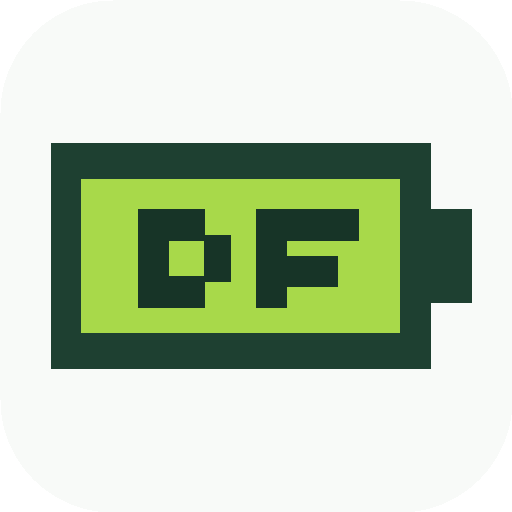
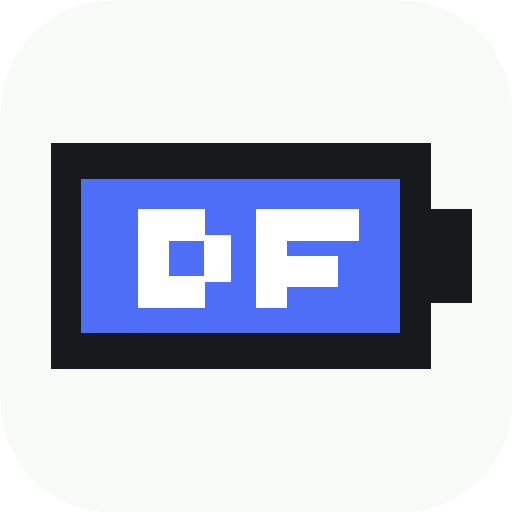
style: align Dayfill with Mind Scale typography

diff --git a/styles.css b/styles.css
@@ -1,29 +1,27 @@
-@import url('https://fonts.googleapis.com/css2?family=DM+Sans:wght@400;500;600&family=Manrope:wght@500;600;700&display=swap');
-
 :root {
-  --cream: #f8faf8;
+  --cream: #ffffff;
   --paper: #ffffff;
-  --ink: #151917;
-  --muted: #707873;
-  --line: #dfe4e0;
-  --lime: #a8d84e;
-  --lime-soft: #edf5dc;
-  --green: #315b46;
-  --green-dark: #1e4031;
+  --ink: #14171c;
+  --muted: #6b7280;
+  --line: #e5e7eb;
+  --blue: #4f6ef7;
+  --blue-soft: #eef2ff;
+  --blue-ui: #4563e6;
+  --blue-dark: #344fc7;
   --danger: #9a3f38;
   --shadow: 0 12px 36px rgba(25, 38, 30, .06);
 }
 
 * { box-sizing: border-box; }
-html { background: var(--cream); color: var(--ink); font-family: 'DM Sans', system-ui, sans-serif; }
+html { background: var(--cream); color: var(--ink); font-family: -apple-system, BlinkMacSystemFont, "Pretendard", "Noto Sans KR", sans-serif; font-synthesis: none; }
 body { margin: 0; min-width: 320px; min-height: 100vh; }
 button, textarea, input { font: inherit; }
 button { color: inherit; }
 [hidden] { display: none !important; }
 
 .app-shell { min-height: 100vh; display: flex; flex-direction: column; }
-.topbar { height: 72px; padding: 0 max(20px, env(safe-area-inset-left)); display: grid; grid-template-columns: 88px 1fr 88px; align-items: center; position: sticky; top: 0; z-index: 10; background: rgba(248,250,248,.9); backdrop-filter: blur(16px); }
-.wordmark { background: none; border: 0; font: 600 18px/1 'Manrope', sans-serif; letter-spacing: -.03em; cursor: pointer; }
+.topbar { height: 72px; padding: 0 max(20px, env(safe-area-inset-left)); display: grid; grid-template-columns: 88px 1fr 88px; align-items: center; position: sticky; top: 0; z-index: 10; background: rgba(255,255,255,.9); backdrop-filter: blur(16px); }
+.wordmark { background: none; border: 0; font-weight: 600; font-size: 18px; line-height: 1; letter-spacing: -.03em; cursor: pointer; }
 .header-actions { display: flex; justify-content: flex-end; }
 .icon-button { width: 44px; height: 44px; border: 0; background: transparent; display: grid; place-content: center; gap: 5px; cursor: pointer; border-radius: 50%; }
 .icon-button:hover, .icon-button:focus-visible { background: rgba(47,93,70,.08); outline: none; }
@@ -33,51 +31,50 @@ button { color: inherit; }
 .language-wrap { position: relative; justify-self: end; }
 .language-popover { position: absolute; right: 0; top: 52px; min-width: 142px; padding: 7px; border: 1px solid var(--line); border-radius: 14px; background: var(--paper); box-shadow: var(--shadow); z-index: 15; }
 .language-popover button { display: block; width: 100%; padding: 10px 12px; text-align: left; border: 0; background: transparent; border-radius: 9px; cursor: pointer; }
-.language-popover button:hover, .language-popover button.active { background: var(--lime-soft); }
+.language-popover button:hover, .language-popover button.active { background: var(--blue-soft); }
 
 main { flex: 1; width: min(100%, 900px); margin: 0 auto; padding: 72px 28px 100px; }
 .hero { text-align: center; }
 .eyebrow { margin: 0 0 10px; color: var(--muted); font-size: 12px; font-weight: 500; letter-spacing: .04em; }
-.year { margin: 0; font: 500 clamp(46px, 11vw, 76px)/1 'Manrope', sans-serif; letter-spacing: -.055em; }
-.year sup { display: inline-block; width: 8px; height: 8px; margin-left: 10px; background: var(--lime); border-radius: 50%; vertical-align: top; }
+.year { margin: 0; font-weight: 400; font-size: clamp(46px, 11vw, 76px); line-height: 1; letter-spacing: -.055em; }
 
 .battery-wrap { margin: 52px auto 34px; max-width: 760px; padding-right: 15px; position: relative; }
-.battery { height: clamp(76px, 14vw, 112px); padding: 6px; border: 3px solid var(--ink); border-radius: 11px; background: var(--paper); display: grid; grid-template-columns: repeat(12, 1fr); gap: 0; position: relative; }
+.battery { height: clamp(76px, 14vw, 112px); padding: 6px; border: 3px solid #17191d; border-radius: 11px; background: var(--paper); display: grid; grid-template-columns: repeat(12, 1fr); gap: 0; position: relative; }
 .battery::after { content: ''; position: absolute; right: -15px; top: 31%; width: 10px; height: 38%; background: var(--ink); border-radius: 0 3px 3px 0; }
-.battery-cell { background: #f1f3f1; overflow: hidden; position: relative; }
+.battery-cell { background: #f3f5f7; overflow: hidden; position: relative; }
 .battery-cell:first-child { border-radius: 5px 0 0 5px; }
 .battery-cell:last-child { border-radius: 0 5px 5px 0; }
-.battery-cell > i { display: block; position: absolute; inset: 0; background: var(--lime); transform-origin: left; }
-.battery-cell > b { position: absolute; z-index: 2; top: 14%; bottom: 14%; right: 0; width: 1px; background: rgba(21,25,23,.2); }
-.progress-copy { margin: 0; font: 500 clamp(20px, 5vw, 27px)/1.35 'Manrope', sans-serif; }
+.battery-cell > i { display: block; position: absolute; inset: 0; background: var(--blue); transform-origin: left; }
+.battery-cell > b { position: absolute; z-index: 2; top: 14%; bottom: 14%; right: 0; width: 1px; background: rgba(226,232,240,.82); }
+.progress-copy { margin: 0; font-weight: 500; font-size: clamp(20px, 5vw, 27px); line-height: 1.35; }
 .fridays { display: inline-flex; align-items: center; gap: 9px; margin: 11px 0 0; color: var(--muted); font-size: 15px; }
-.fridays::before { content: ''; width: 7px; height: 7px; border-radius: 50%; background: var(--lime); }
+.fridays::before { content: ''; width: 6px; height: 6px; border-radius: 50%; background: var(--blue); }
 
 .today-section { margin-top: 108px; padding: 58px 0 0; border-top: 1px solid var(--line); }
 .section-heading { display: flex; justify-content: space-between; gap: 20px; align-items: end; margin-bottom: 28px; }
 .section-heading p { margin: 0 0 6px; color: var(--muted); font-size: 14px; }
-.section-heading h2 { margin: 0; font: 500 clamp(25px, 6vw, 34px)/1.18 'Manrope', sans-serif; letter-spacing: -.035em; }
+.section-heading h2 { margin: 0; font-weight: 500; font-size: clamp(25px, 6vw, 34px); line-height: 1.18; letter-spacing: -.035em; }
 .counter { color: var(--muted); font-size: 12px; white-space: nowrap; }
 .entry-form { display: grid; gap: 16px; }
 .photo-input { display: none; }
-.photo-drop { min-height: 126px; border: 1px dashed #b9c1bb; border-radius: 10px; display: grid; place-items: center; text-align: center; cursor: pointer; color: var(--green); background: #fbfcfb; overflow: hidden; position: relative; }
-.photo-drop:hover { border-color: var(--green); }
+.photo-drop { min-height: 126px; border: 1px dashed #c4cad3; border-radius: 10px; display: grid; place-items: center; text-align: center; cursor: pointer; color: var(--blue-ui); background: #fbfcfe; overflow: hidden; position: relative; }
+.photo-drop:hover { border-color: var(--blue-ui); }
 .photo-drop img { position: absolute; inset: 0; width: 100%; height: 100%; object-fit: cover; }
 .photo-prompt { z-index: 1; padding: 10px 14px; background: rgba(255,255,255,.92); font-weight: 500; display: inline-flex; gap: 8px; align-items: center; }
 .photo-prompt svg { width: 19px; }
 .photo-controls { display: flex; gap: 8px; }
 textarea { width: 100%; min-height: 104px; resize: vertical; padding: 17px; border: 1px solid var(--line); border-radius: 10px; background: transparent; color: var(--ink); outline: none; line-height: 1.6; }
-textarea:focus { border-color: var(--green); box-shadow: 0 0 0 3px rgba(47,93,70,.09); }
-.button { min-height: 46px; padding: 0 19px; border: 0; border-radius: 8px; background: var(--green); color: white; font-weight: 500; cursor: pointer; display: inline-flex; align-items: center; justify-content: center; gap: 8px; }
+textarea:focus { border-color: var(--blue-ui); box-shadow: 0 0 0 3px rgba(79,110,247,.1); }
+.button { min-height: 46px; padding: 0 19px; border: 0; border-radius: 8px; background: var(--blue-ui); color: white; font-weight: 500; cursor: pointer; display: inline-flex; align-items: center; justify-content: center; gap: 8px; }
 .inline-icon { width: 18px; height: 18px; }
-.button:hover { background: var(--green-dark); }
-.button.ghost { background: transparent; color: var(--green); border: 1px solid var(--line); }
+.button:hover { background: var(--blue-dark); }
+.button.ghost { background: transparent; color: var(--blue-ui); border: 1px solid var(--line); }
 .button.danger { background: var(--danger); }
-.form-note { min-height: 18px; margin: 0; color: var(--green); font-size: 13px; }
+.form-note { min-height: 18px; margin: 0; color: var(--blue-ui); font-size: 13px; }
 
 .saved-entry { display: grid; gap: 20px; }
 .saved-entry img, .entry-card img { width: 100%; max-height: 380px; object-fit: cover; border-radius: 16px; background: #ebe9df; }
-.saved-entry blockquote { margin: 0; font: 500 clamp(18px, 4vw, 23px)/1.65 'Manrope', sans-serif; white-space: pre-wrap; }
+.saved-entry blockquote { margin: 0; font-weight: 500; font-size: clamp(18px, 4vw, 23px); line-height: 1.65; white-space: pre-wrap; }
 .entry-actions { display: flex; gap: 10px; }
 
 .scrim { position: fixed; inset: 0; z-index: 29; background: rgba(18,23,19,.36); backdrop-filter: blur(2px); }
@@ -85,33 +82,33 @@ textarea:focus { border-color: var(--green); box-shadow: 0 0 0 3px rgba(47,93,70
 .side-menu.open { transform: translateX(0); }
 .menu-head { display: flex; justify-content: space-between; align-items: start; margin-bottom: 27px; }
 .menu-head small { display: block; color: var(--muted); letter-spacing: .15em; font-size: 10px; }
-.menu-head strong { display: block; margin-top: 4px; font: 600 35px 'Manrope'; }
+.menu-head strong { display: block; margin-top: 4px; font-weight: 500; font-size: 35px; }
 .close { font-size: 30px; }
 #monthNavigation { display: grid; gap: 4px; }
 .month-link { width: 100%; display: flex; justify-content: space-between; align-items: center; padding: 11px 10px; border: 0; border-radius: 7px; background: transparent; cursor: pointer; text-align: left; }
 .month-link:hover { background: rgba(47,93,70,.06); }
-.month-link.current { background: var(--lime-soft); color: var(--green-dark); font-weight: 600; }
+.month-link.current { background: var(--blue-soft); color: var(--blue-dark); font-weight: 600; }
 .month-link em { font-style: normal; color: var(--muted); font-size: 12px; text-align: right; }
 .past-years { margin-top: 28px; padding-top: 22px; border-top: 1px solid var(--line); }
 .past-years > p { color: var(--muted); font-size: 12px; font-weight: 600; letter-spacing: .1em; text-transform: uppercase; }
-.past-year-button { padding: 8px 0; border: 0; background: transparent; color: var(--green); cursor: pointer; }
+.past-year-button { padding: 8px 0; border: 0; background: transparent; color: var(--blue-ui); cursor: pointer; }
 
 .month-view { animation: lift .35s ease both; }
-.back-button { margin-bottom: 24px; border: 0; background: transparent; color: var(--green); font-weight: 600; cursor: pointer; }
+.back-button { margin-bottom: 24px; border: 0; background: transparent; color: var(--blue-ui); font-weight: 600; cursor: pointer; }
 .month-records { margin-top: 68px; }
-.month-records h2 { font: 600 25px 'Manrope'; }
+.month-records h2 { font-weight: 600; font-size: 25px; }
 .entry-grid { display: grid; grid-template-columns: repeat(2, minmax(0,1fr)); gap: 14px; }
 .entry-card { padding: 0 0 24px; background: transparent; border-bottom: 1px solid var(--line); }
 .entry-card img { height: 170px; margin-bottom: 13px; }
-.entry-card time { color: var(--green); font-size: 12px; font-weight: 600; }
+.entry-card time { color: var(--blue-ui); font-size: 12px; font-weight: 600; }
 .entry-card p { margin: 8px 0 0; line-height: 1.55; white-space: pre-wrap; }
 .empty-state { padding: 48px 20px; border: 1px dashed var(--line); border-radius: 18px; text-align: center; color: var(--muted); }
 footer { padding: 28px 22px 40px; color: var(--muted); text-align: center; font-size: 12px; }
-footer span { color: var(--green); font-weight: 700; letter-spacing: .15em; }
+footer span { color: var(--blue-ui); font-weight: 700; letter-spacing: .04em; }
 footer p { margin: 7px 0 0; }
 dialog { width: min(calc(100% - 36px), 420px); padding: 27px; border: 0; border-radius: 20px; background: var(--paper); color: var(--ink); box-shadow: var(--shadow); }
 dialog::backdrop { background: rgba(18,23,19,.42); }
-dialog h2 { margin: 0; font: 600 21px 'Manrope'; }
+dialog h2 { margin: 0; font-weight: 600; font-size: 21px; }
 dialog p { color: var(--muted); line-height: 1.6; }
 .dialog-actions { display: flex; justify-content: flex-end; gap: 8px; margin-top: 22px; }
 @keyframes lift { from { opacity: 0; transform: translateY(9px); } }

diff --git a/app.js b/app.js
@@ -4,24 +4,24 @@ const $$ = (selector, root = document) => [...root.querySelectorAll(selector)];
 const messages = {
   ko: {
     menuOpen: '메뉴 열기', menuClose: '메뉴 닫기', language: '언어 변경', refresh: '현재 날짜로 업데이트', overview: '올해의 시간',
-    yearProgress: (p) => `올해의 ${p}%를 살았어요`, fridays: (n) => `앞으로 금요일이 ${n}번 남았어요`,
+    yearProgress: (p) => `올해의 ${p}%가 채워졌어요`, fridays: (n) => `앞으로 금요일이 ${n}번 남았어요`,
     todayQuestion: '오늘은 어땠나요?', addPhoto: '사진 추가', changePhoto: '사진 변경', removePhoto: '사진 삭제',
     placeholder: '오늘을 짧게 남겨보세요...', save: '오늘 기록하기', update: '수정 내용 저장', saved: '오늘의 기록을 저장했어요.',
     edit: '기록 수정', delete: '기록 삭제', deleteTitle: '기록을 삭제할까요?', deleteBody: '사진과 짧은 기록이 이 기기에서 삭제됩니다.',
     cancel: '취소', pastYears: '지난 연도', records: '남긴 기록', noRecords: '이 달에는 아직 남긴 기록이 없어요.',
-    monthProgress: (m, p) => `${m}월의 ${p}%를 살았어요`, back: '← 올해로 돌아가기', footer: '당신의 시간은 채워지고 있어요.',
+    monthProgress: (m, p) => `${m}의 ${p}%가 채워졌어요`, back: '← 올해로 돌아가기', footer: '당신의 시간은 채워지고 있어요.',
     textRequired: '짧은 기록이나 사진 중 하나를 남겨주세요.', photoError: '사진을 불러오지 못했어요. 다른 사진을 선택해주세요.',
     months: Array.from({length: 12}, (_, i) => `${i + 1}월`), date: (d) => `${d.getFullYear()}년 ${d.getMonth()+1}월 ${d.getDate()}일`,
     shortDate: (d) => `${d.getMonth()+1}월 ${d.getDate()}일`, current: '현재'
   },
   en: {
     menuOpen: 'Open menu', menuClose: 'Close menu', language: 'Change language', refresh: 'Update to current date', overview: 'Time lived this year',
-    yearProgress: (p) => `You’ve lived ${p}% of this year`, fridays: (n) => `${n} Friday${n === 1 ? '' : 's'} left this year`,
+    yearProgress: (p) => `This year is ${p}% filled`, fridays: (n) => `${n} Friday${n === 1 ? '' : 's'} left this year`,
     todayQuestion: 'How was today?', addPhoto: 'Add photo', changePhoto: 'Change photo', removePhoto: 'Remove photo',
     placeholder: 'Leave a few words about today...', save: 'Save today', update: 'Save changes', saved: 'Today’s moment is saved.',
     edit: 'Edit entry', delete: 'Delete entry', deleteTitle: 'Delete this entry?', deleteBody: 'The photo and note will be removed from this device.',
     cancel: 'Cancel', pastYears: 'Past Years', records: 'Moments saved', noRecords: 'No moments saved in this month yet.',
-    monthProgress: (m, p) => `You’ve lived ${p}% of ${m}`, back: '← Back to this year', footer: 'Your time is filling up.',
+    monthProgress: (m, p) => `${m} is ${p}% filled`, back: '← Back to this year', footer: 'Your time is filling up.',
     textRequired: 'Add a short note or a photo.', photoError: 'We couldn’t read that photo. Please choose another.',
     months: ['January','February','March','April','May','June','July','August','September','October','November','December'],
     date: (d) => new Intl.DateTimeFormat('en-US', {month:'long', day:'numeric', year:'numeric'}).format(d),
@@ -99,7 +99,7 @@ async function renderHome() {
   const now = new Date(); state.year = now.getFullYear(); state.month = null; state.view = 'home';
   const progress = yearPercent(now); const todayKey = localDateKey(now); const entry = await getEntry(todayKey);
   $('#app').innerHTML = `<section class="hero">
-    <p class="eyebrow">${t('overview')}</p><h1 class="year">${now.getFullYear()}<sup></sup></h1>
+    <p class="eyebrow">${t('overview')}</p><h1 class="year">${now.getFullYear()}</h1>
     ${batteryMarkup(progress, t('overview'), Array.from({length: 12}, (_, month) => monthPercent(month, now.getFullYear(), now) / 100))}<p class="progress-copy">${t('yearProgress', progress)}</p>
     <p class="fridays">${t('fridays', remainingFridays(now))}</p>
   </section>
@@ -164,7 +164,7 @@ async function renderMonth(year, month) {
     return `<article class="entry-card">${src ? `<img src="${src}" alt="">` : ''}<time datetime="${entry.date}">${t('shortDate', d)}</time>${entry.text ? `<p>${escapeHtml(entry.text)}</p>` : ''}</article>`;
   }).join('');
   $('#app').innerHTML = `<section class="month-view"><button class="back-button" id="backHome">${t('back')}</button><section class="hero">
-    <p class="eyebrow">${year}</p><h1 class="year">${t('months')[month]}<sup></sup></h1>${batteryMarkup(p, t('months')[month])}
+    <p class="eyebrow">${year}</p><h1 class="year">${t('months')[month]}</h1>${batteryMarkup(p, t('months')[month])}
     <p class="progress-copy">${t('monthProgress', t('months')[month], p)}</p></section>
     <section class="month-records"><h2>${t('records')}</h2>${cards ? `<div class="entry-grid">${cards}</div>` : `<div class="empty-state">${t('noRecords')}</div>`}</section></section>`;
   $('#backHome').onclick = renderHome; renderMenu(); $('#app').focus(); window.scrollTo({top: 0, behavior: 'smooth'});

diff --git a/sw.js b/sw.js
@@ -1,4 +1,4 @@
-const CACHE = 'dayfill-v2';
+const CACHE = 'dayfill-v3';
 const ASSETS = ['./', './index.html', './styles.css', './app.js', './manifest.webmanifest', './icons/icon.svg', './icons/icon-192.png', './icons/icon-512.png'];
 self.addEventListener('install', event => event.waitUntil(caches.open(CACHE).then(cache => cache.addAll(ASSETS)).then(() => self.skipWaiting())));
 self.addEventListener('activate', event => event.waitUntil(caches.keys().then(keys => Promise.all(keys.filter(key => key !== CACHE).map(key => caches.delete(key)))).then(() => self.clients.claim())));

diff --git a/index.html b/index.html
@@ -3,7 +3,7 @@
   <head>
     <meta charset="UTF-8" />
     <meta name="viewport" content="width=device-width, initial-scale=1, viewport-fit=cover" />
-    <meta name="theme-color" content="#f8faf8" />
+    <meta name="theme-color" content="#ffffff" />
     <meta name="description" content="Dayfill — a year filling up, one day at a time." />
     <link rel="manifest" href="./manifest.webmanifest" />
     <link rel="icon" href="./icons/icon.svg" type="image/svg+xml" />
